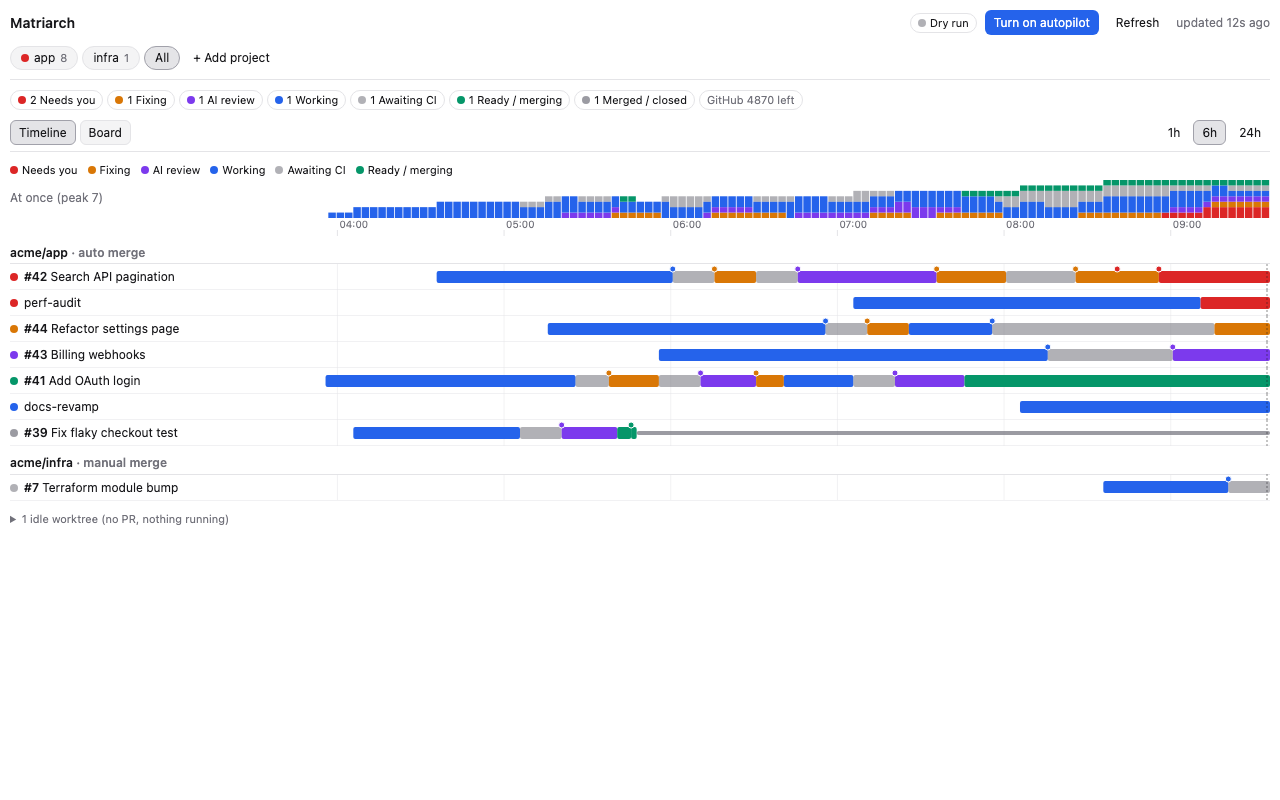
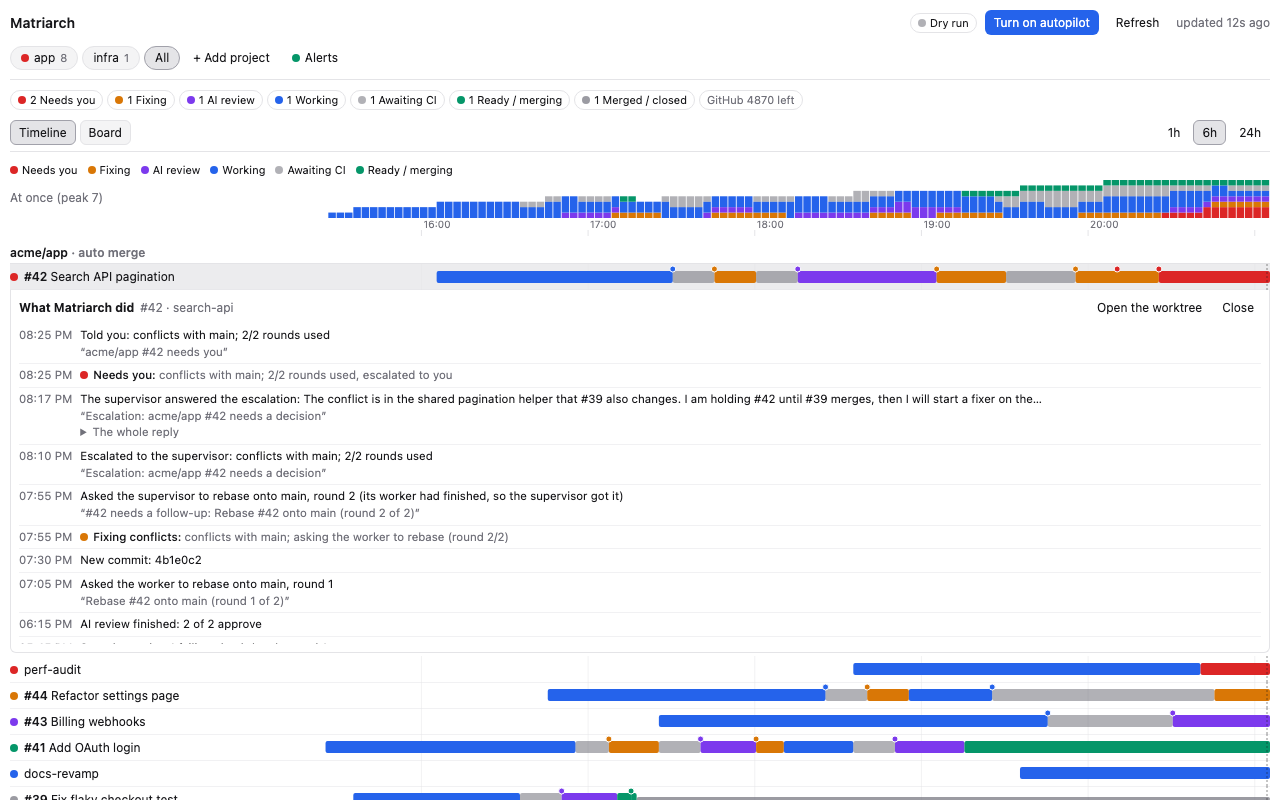
Retake the screenshots, and tidy the supervisor row and the Alerts button
The supervisor's worker count reads as part of its sentence, and its two
buttons wrap together in a narrow sidebar; the issues line has no stray
separator, the Alerts dot is spaced like a project chip's, and an empty
project asks for a first commit on its default branch. The preview names
models as Orca lists them and opens the picker in the Workers card. Every
screenshot and the cover are retaken: the first listing screenshot and the
README's timeline now show a PR's log, and the README gives the exact
recipe for each image.

diff --git a/src/view/main.ts b/src/view/main.ts
@@ -257,7 +257,7 @@ function projectBar(b: Board, page: Page): HTMLElement {
       : null,
     el('button', { class: page.kind === 'add' ? 'project-chip' : 'ghost', 'aria-pressed': page.kind === 'add' ? 'true' : 'false', onclick: () => go({ kind: 'add' }) }, '+ Add project'),
     el('button', {
-      class: page.kind === 'alerts' ? 'project-chip' : 'ghost',
+      class: page.kind === 'alerts' ? 'project-chip' : 'ghost with-dot',
       'aria-pressed': page.kind === 'alerts' ? 'true' : 'false',
       title: state.alertsOn ? `Away alerts go to ${state.alertsOn}` : 'Send what needs you to Slack, Discord, ntfy or a webhook, for when you are away',
       onclick: () => go({ kind: 'alerts' })
@@ -647,8 +647,7 @@ export function issuesLine(r: RepoView): string | null {
   const refused = i?.refused ?? []
   if (!i || (i.taken.length === 0 && i.waiting.length === 0 && refused.length === 0)) return null
   const list = (ns: number[]) => ns.map((n) => `#${n}`).join(', ')
-  return [
-    `Issues labeled ${i.label}:`,
+  return `Issues labeled ${i.label}: ` + [
     i.taken.length ? `${i.taken.length} taken (${list(i.taken)})` : null,
     i.waiting.length ? `${i.waiting.length} waiting (${list(i.waiting)})` : null,
     i.held ? `holding ${list(i.next)}: ${i.held}` : i.next.length ? `would hand ${list(i.next)} to the supervisor` : null,
@@ -710,20 +709,21 @@ function supervisorCard(r: RepoView): HTMLElement {
       el('b', {}, 'Supervisor'),
       el('span', { class: `badge badge-${phase}` }, badge),
       el('span', { class: 'muted' }, who),
-      phase === 'running' ? el('span', { class: 'muted', title: `${s.workers} worker${s.workers === 1 ? '' : 's'} in its Run in all` }, `· ${workerCount(s)}`) : null,
       el('span', { class: 'spacer' }),
-      phase === 'idle'
-        ? el('button', { class: 'primary', disabled: state.busy || r.empty === true, title: r.empty ? `Push a first commit to ${forgeOf(r)} first` : 'Opens a briefed chat; nothing starts until you agree a plan there', onclick: openChat }, 'Open supervisor chat')
-        : el('button', { class: 'primary', onclick: reopen }, 'Open'),
-      phase === 'idle' ? null : el('button', { class: 'ghost', disabled: state.busy, title: 'Start a fresh supervisor chat; Matriarch links the new one instead', onclick: openChat }, 'New chat')),
+      // The buttons wrap together, so a narrow sidebar never leaves one alone on a line.
+      el('span', { class: 'sup-actions' },
+        phase === 'idle'
+          ? el('button', { class: 'primary', disabled: state.busy || r.empty === true, title: r.empty ? `Push a first commit to ${forgeOf(r)} first` : 'Opens a briefed chat; nothing starts until you agree a plan there', onclick: openChat }, 'Open supervisor chat')
+          : el('button', { class: 'primary', onclick: reopen }, 'Open'),
+        phase === 'idle' ? null : el('button', { class: 'ghost', disabled: state.busy, title: 'Start a fresh supervisor chat; Matriarch links the new one instead', onclick: openChat }, 'New chat'))),
     el('div', { class: 'muted' },
       r.empty
-        ? `This project has no commits on ${forgeOf(r)} yet. Push a first commit to main, then start the supervisor.`
+        ? `This project has no commits on ${forgeOf(r)} yet. Push a first commit to its default branch, then start the supervisor.`
         : phase === 'idle'
           ? 'Tell it what to build in its chat. It proposes a plan and starts workers only after you agree. Each worker opens a PR, and Matriarch takes it from there.'
           : phase === 'starting'
             ? 'Talk to it in its chat. Matriarch links it here once you agree a plan and it creates its orchestration Run.'
-            : `Running in ${s.run}. Its workers show below as worktrees, then as PRs.`),
+            : el('span', {}, `Running in ${s.run}: `, el('span', { title: `${s.workers} worker${s.workers === 1 ? '' : 's'} in its Run in all` }, workerCount(s)), '. Its workers show below as worktrees, then as PRs.')),
     issuesLine(r) ? el('div', { class: 'muted sup-issues' }, issuesLine(r)) : null,
     r.advisor ? advisorLine(r.advisor) : null,
     error ? el('div', { class: 'sup-hint' }, error) : null

diff --git a/tools/preview/index.html b/tools/preview/index.html
@@ -96,10 +96,12 @@
     escalation: { supervisorFirst: true, humanAfterMinutes: 30 }, limits: { maxConcurrentReviews: 2, maxWorkers: 4, maxWorkerStartsPerDay: 0, minFreeDiskGB: 10 },
     issues: { enabled: true, label: 'matriarch', comment: false }
   }
+  // Model names as Orca lists them for each agent, as Settings shows them.
+  const NAMES = { 'claude-opus-5-5': 'Claude Opus 5.5', 'claude-sonnet-5-5': 'Claude Sonnet 5.5', 'claude-haiku-5-5': 'Claude Haiku 5.5', 'claude-fable-5-2': 'Claude Fable 5.2', 'gpt-6-astra': 'GPT-6 Astra' }
   const agent = (id, label, installed, lockable, models, efforts) => ({ id, label, installed, lockable, takesModel: true, efforts, defaultModel: models[0] ?? null, defaultEffort: null,
-    models: models.map((m) => ({ id: m, label: m, efforts })) })
+    models: models.map((m) => ({ id: m, label: NAMES[m] ?? m, efforts })) })
   const agents = [
-    agent('claude', 'Claude Code', true, true, ['claude-opus-5-5', 'claude-sonnet-5-5', 'claude-haiku-5-5'], ['low', 'medium', 'high', 'xhigh', 'max']),
+    agent('claude', 'Claude Code', true, true, ['claude-opus-5-5', 'claude-fable-5-2', 'claude-sonnet-5-5', 'claude-haiku-5-5'], ['low', 'medium', 'high', 'xhigh', 'max']),
     agent('codex', 'Codex', true, true, ['gpt-6-astra'], ['low', 'medium', 'high', 'xhigh']),
     { id: 'opencode', label: 'OpenCode', installed: true, lockable: false, takesModel: true, efforts: [], defaultModel: null, defaultEffort: null,
       models: [
@@ -113,7 +115,7 @@
   const projects = [
     { root: '/src/app', name: 'app', repo: 'acme/app', enabled: true, problem: null },
     { root: '/src/infra', name: 'infra', repo: 'acme/infra', enabled: true, problem: null },
-    { root: '/src/docs', name: 'docs', repo: 'acme/docs', enabled: false, problem: 'It has no commits yet. Commit and push a first version to main before starting a supervisor.' },
+    { root: '/src/docs', name: 'docs', repo: 'acme/docs', enabled: false, problem: 'It has no commits yet. Commit and push a first version to its default branch before starting a supervisor.' },
     { root: '/src/notes', name: 'notes', repo: null, enabled: false, problem: 'Its origin is not on GitHub, so Matriarch cannot follow its pull requests.' }
   ]
   // ?clean=1: no sample warnings, and the focused project is known (for screenshots).
@@ -167,9 +169,12 @@
   if (params.get('page') === 'settings' || params.get('page') === 'picker') setTimeout(() => click('Settings'), 200)
   if (params.get('page') === 'picker') setTimeout(() => {
     const select = [...document.querySelectorAll('.role select')].find((x) => x.value === 'codex')
+    const card = select.closest('.role')
     select.value = 'opencode'; select.dispatchEvent(new Event('change'))
     setTimeout(() => {
-      document.querySelectorAll('.picker-button')[1]?.click()
+      // Settings redraws on the change: find the same card again by its agent.
+      const again = [...document.querySelectorAll('.role')].find((r) => [...r.querySelectorAll('select')].some((x) => x.value === 'opencode')) ?? card
+      again.querySelector('.picker-button')?.click()
       setTimeout(() => { const q = document.querySelector('.picker-search'); if (q && params.get('q')) { q.value = params.get('q'); q.dispatchEvent(new Event('input')) } }, 100)
     }, 100)
   }, 400)

diff --git a/src/view/style.ts b/src/view/style.ts
@@ -61,6 +61,7 @@ a:hover { text-decoration: underline; }
 .sup { border: 1px solid var(--orca-border); border-radius: var(--orca-radius, 6px); padding: 6px 8px; background: var(--orca-card); display: flex; flex-direction: column; gap: 4px; }
 .sup-head { display: flex; align-items: center; gap: 6px; flex-wrap: wrap; }
 .sup-head .spacer { flex: 1; }
+.sup-actions { display: inline-flex; gap: 6px; margin-left: auto; }
 .sup summary { cursor: pointer; color: var(--m-blue); }
 .sup-hint { color: var(--m-fixing); font-size: 11px; min-height: 0; }
 .sup-advisor { font-size: 11px; overflow-wrap: anywhere; }
@@ -78,6 +79,8 @@ a:hover { text-decoration: underline; }
 .projects { display: flex; flex-wrap: wrap; gap: 4px; align-items: center; border-bottom: 1px solid var(--orca-border); padding-bottom: 8px; }
 .project-chip { display: inline-flex; align-items: center; gap: 5px; border-radius: 999px; padding: 2px 10px; }
 .project-chip .muted { font-size: 11px; }
+/* A button that shows a status dot before its label, spaced as a project chip's. */
+.with-dot { display: inline-flex; align-items: center; gap: 5px; }
 .project-head { display: flex; align-items: center; gap: 8px; flex-wrap: wrap; font-size: 13px; }
 .project-head .spacer { flex: 1; }
 .path { font-size: 11px; overflow: hidden; text-overflow: ellipsis; white-space: nowrap; }

diff --git a/README.md b/README.md
@@ -104,7 +104,7 @@ Matriarch manages only PRs you opened from a branch that belongs to an Orca work
 
 ## What you see
 
-![The board: PR cards grouped by state, each with its agent and model, CI, rounds used, and what dry run would do next.](docs/board.png)
+![The timeline across two projects, with one PR's log open: each lane it entered and why, each message, and the supervisor's reply.](docs/timeline.png)
 
 - **Projects:** a chip per project, **All** for every project on one timeline, and **+ Add
   project**. The panel follows the workspace you focus in Orca.
@@ -113,14 +113,14 @@ Matriarch manages only PRs you opened from a branch that belongs to an Orca work
   Worktrees with no PR and nothing running fold into one line.
 - **Board:** cards by state with the agent and model, CI, comments and rounds used, the
   supervisor's latest reply about the PR since its last push, and in dry run what Matriarch
-  would do next. **Run AI
-  review now** on any card runs the crew on that commit, in dry run too.
+  would do next. **Run AI review now** on any card runs the crew on that commit, in dry run too.
 - **What Matriarch did:** click a timeline row, or open **What Matriarch did** on a card, for
-  that PR's log, newest first: each lane it entered and why, new commits, finished reviews, and
+  that PR's log, newest first: each lane it entered and why, new commits, finished reviews,
   every message it sent (to the worker, the supervisor or you, with its subject) and each reply
-  to one, branch update, merge and cleanup, including what failed and why. It holds only what Matriarch did; dry run's
-  plans stay in **Would do next**. An action that fails on every poll is one line with a count
-  (`×12, last 14:05`), and each PR keeps its own log. Kept for a week.
+  to one, branch updates, the merge and the cleanup, including what failed and why. It holds
+  only what Matriarch did; dry run's plans stay in **Would do next**. An action that fails on
+  every poll is one line with a count (`×12, last 14:05`), and each PR keeps its own log. Kept
+  for a week.
 - **Supervisor:** each project's chat, with the Run it coordinates, how many of its workers are
   running against the project's limit, the labeled issues it took or that wait, and its advisor:
   the question it is answering, or the last one it answered.
@@ -130,6 +130,8 @@ Matriarch manages only PRs you opened from a branch that belongs to an Orca work
   same at a glance. Each also reaches you as an Orca notification, and by
   [away alert](#away-alerts) when you set one: once while it stands, under autopilot.
 - **Full tab:** tab bar **+** → **Matriarch board**.
+
+![The board: PR cards grouped by state, each with its agent and model, CI, rounds used, the supervisor's latest reply, and what dry run would do next.](docs/board.png)
 
 ## Options
 
@@ -586,11 +588,21 @@ is, a listed version never changes, and its tag cannot be moved.
 
 ### Screenshots and listing art
 
-`docs/*.png` and `assets/screenshot-1.png`, `-2.png` are the panel drawn by `pnpm preview` with
-`?clean=1` (no sample warnings): `?width=400` for the sidebar, `?view=board`, `?page=all`,
-`?page=settings`. `assets/icon.png` (256×256), `assets/cover.png` (1600×1000) and
-`assets/screenshot-3.png` (1280×800) are drawn from `art/*.html`: open each at that size and save
-it as PNG. The plugin page shows only the middle band of the cover (about y 380 to 620), so the
+`docs/*.png` and `assets/screenshot-1.png`, `-2.png` are the panel drawn by `pnpm preview`, always
+with `?clean=1` (no sample warnings):
+
+| Image | Query | Window |
+| --- | --- | --- |
+| `docs/timeline.png`, `assets/screenshot-1.png` | `&page=all&log=1` | 1280×800 |
+| `docs/board.png` | `&view=board` | 1280×780 |
+| `assets/screenshot-2.png` | `&view=board` | 1280×800 |
+| `docs/sidebar.png` | `&width=400` | 400×712 at 2× |
+| `docs/settings.png` | `&width=400&page=settings` | 400×1060 at 2× |
+| `docs/picker.png` | `&width=400&page=picker&q=deep` | 400×1400 at 2×, cropped to 800×1240 from y 1020 |
+
+`assets/icon.png` (256×256), `assets/cover.png` (1600×1000) and `assets/screenshot-3.png`
+(1280×800) are drawn from `art/*.html` (the cover and `screenshot-3` show `docs/sidebar.png` and
+`docs/settings.png`, so take those first): open each at that size and save it as PNG. The plugin page shows only the middle band of the cover (about y 380 to 620), so the
 name and tagline stay inside it.
 
 ## License
